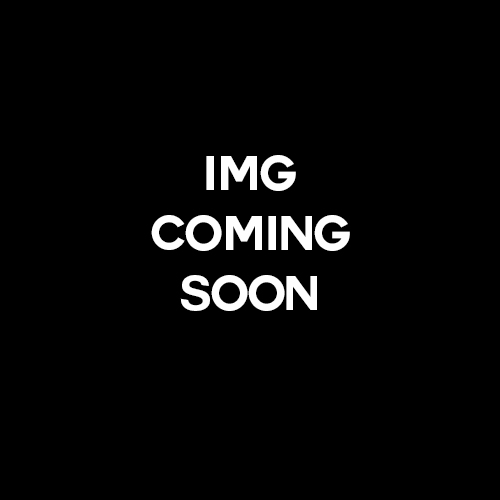
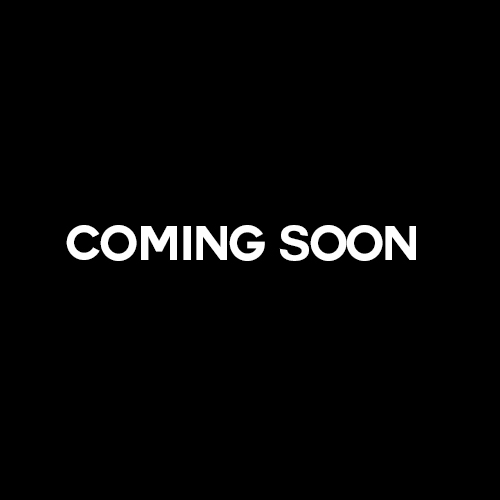
Fixed work samples

Changed region(s): [[0.12, 0.42, 0.84, 0.63], [0.39, 0.3, 0.6, 0.39]]

diff --git a/index.html b/index.html
@@ -137,8 +137,7 @@
           <div class="gallery">
    
            <figure>
-              <iframe src="https://player.vimeo.com/video/101066567?title=0&byline=0&portrait=0" width="300" height="150" frameborder="0" allow="autoplay; fullscreen" allowfullscreen></iframe>
-              <p><a href="https://vimeo.com/101066567"></a> 
+            <a href="#"><img src="assets/placeholder.jpg" target="_blank"></a>              
                <div class="figcaption2">
                   DADPRANKS
                </div>
@@ -176,7 +175,8 @@
         <li><a href="https://www.linkedin.com/in/k8hansen/" target="_blank"><img src="assets/linkedin.png" /></a></li>
         <li><a href="https://open.spotify.com/user/1259062356?si=SzQe3dGZTHu_bhyRapSGHA" target="_blank"><img src="assets/spotify.png" /></a></li>
     </ul>
-    <p>HMU</p>
+    <p>Get in Touch</p>
+    <p class="copyright">© Kate Hansen 2019</p>
   </footer>
 
  

diff --git a/css/stylesheet.css b/css/stylesheet.css
@@ -294,11 +294,11 @@ position: relative;
 .artwork{
   background-color: #FFE0BD;
   min-height: 100vh;
-
   padding: 25px;
   display: flex;
   align-items: center;
   justify-content: center;
+  
 }
 
 /* -------------- contact info  --------------- */
@@ -320,6 +320,7 @@ position: relative;
   max-width: 10px;
   font-size: 1px;
   margin: 50px;
+ 
 }
 
 .social-icons li:hover {
@@ -352,9 +353,11 @@ color: #EF3B3E;
 
 .projects_wrapper {
   min-height: 80%;
+  min-width: 90%;
   border: 10px solid white;
   border-radius: 90px;
   padding: 45px;
+  flex-shrink: 0;
 }
 
 figure{
@@ -383,4 +386,11 @@ figure figcaption{
   display: flex;
   justify-content: space-between;
   /*flex-wrap: wrap;*/
+}
+
+.copyright {
+  padding-top: 25px;
+  font-size: 14px;
+  color: black;
+  font-weight: 200;
 }
